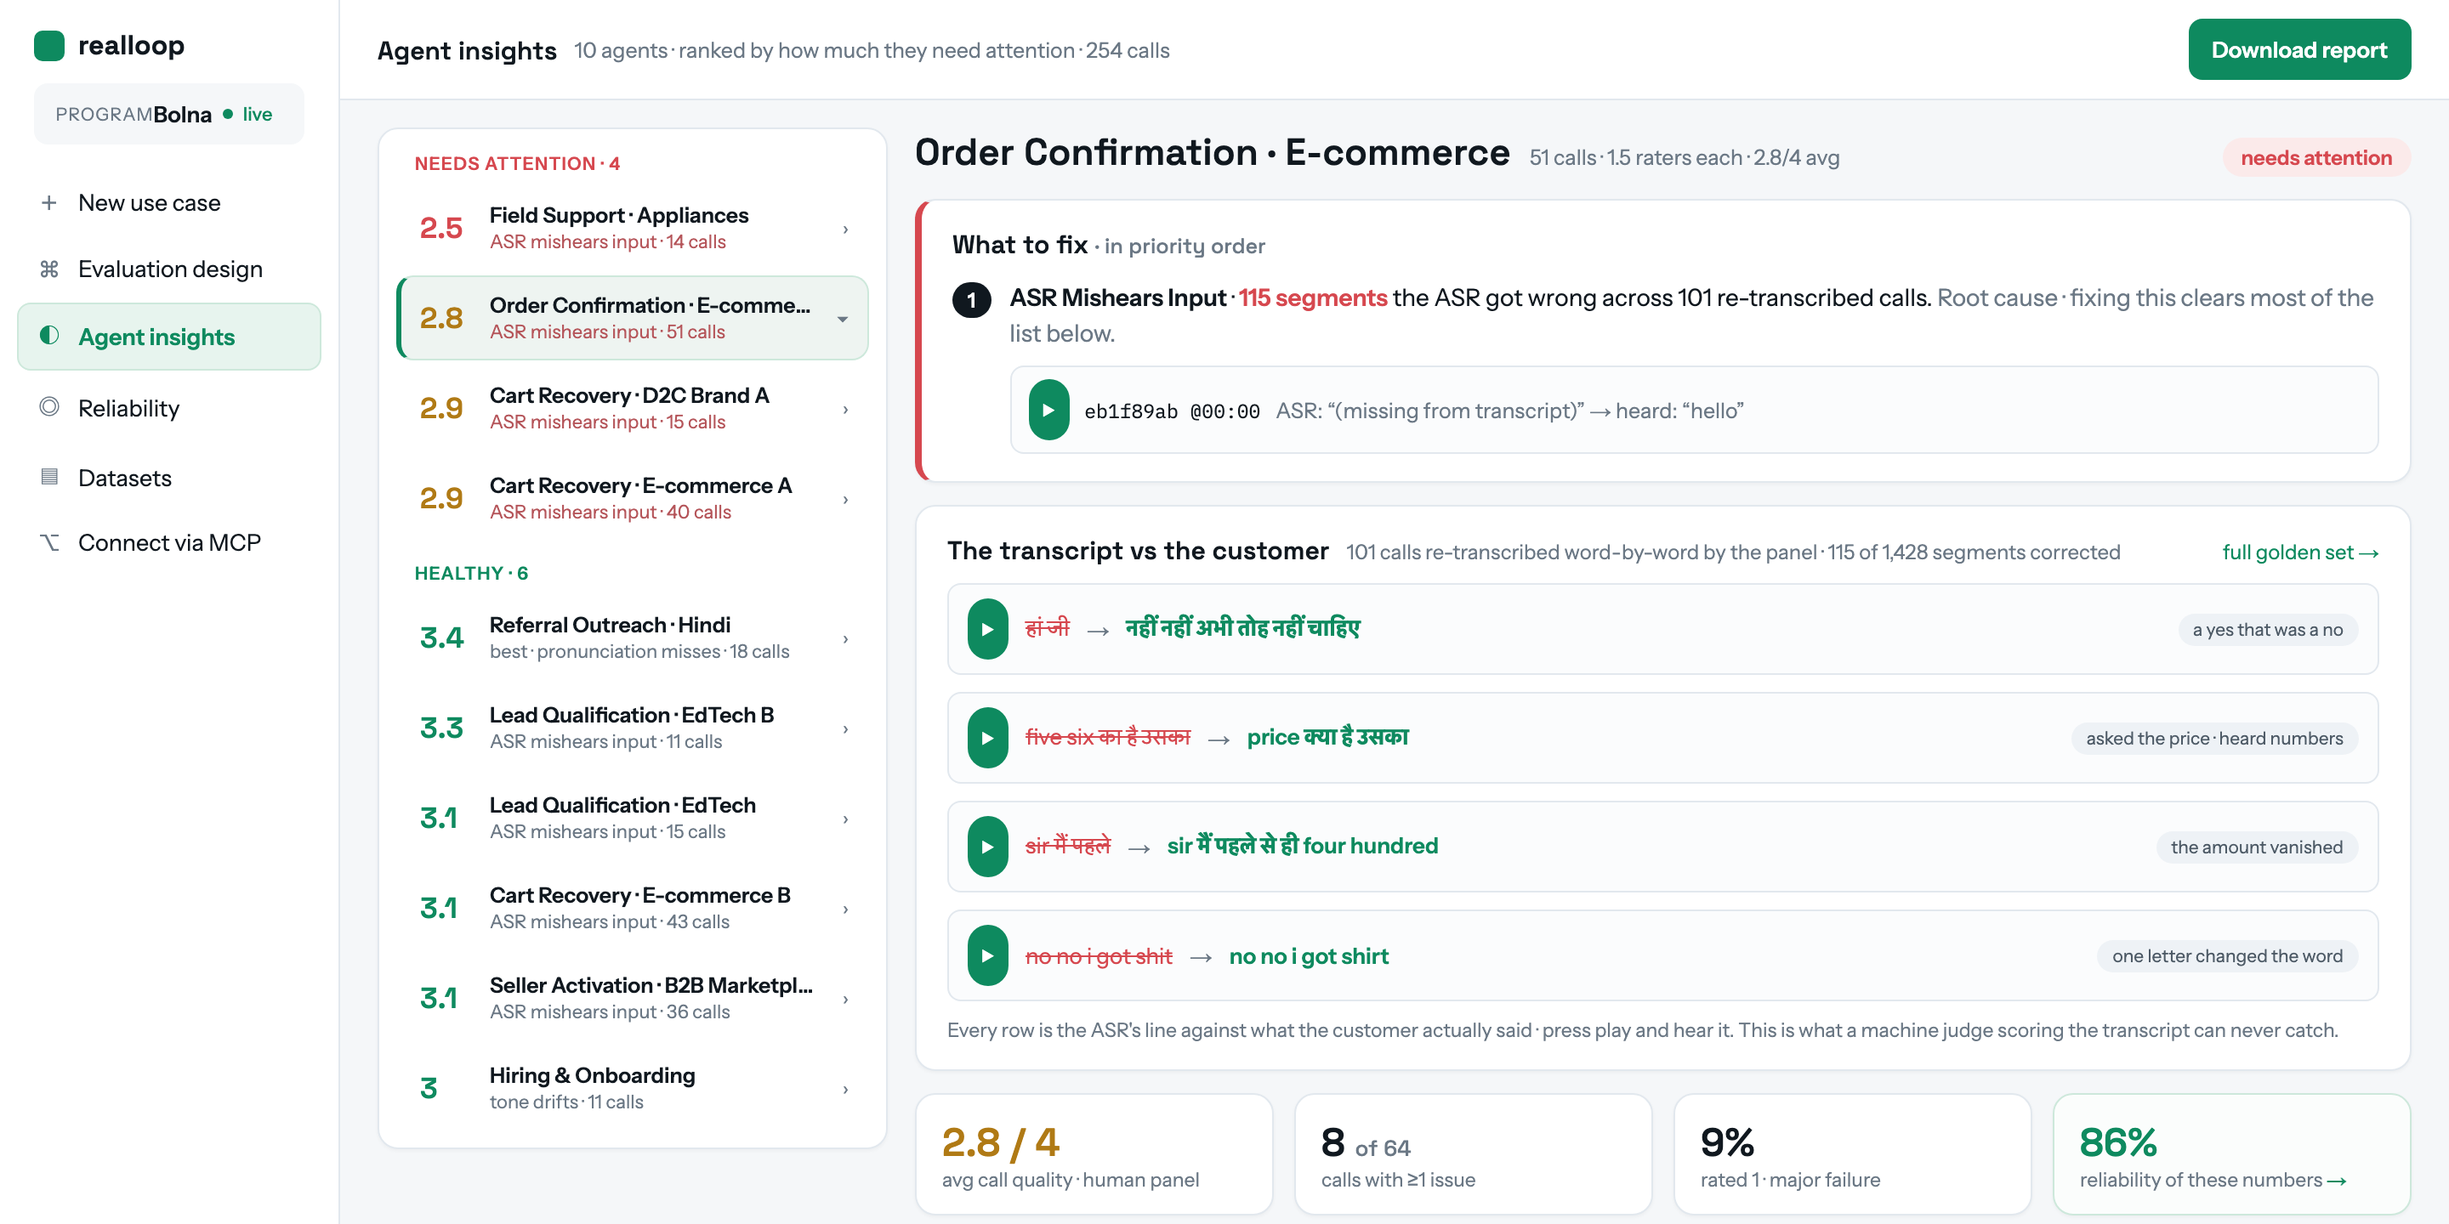
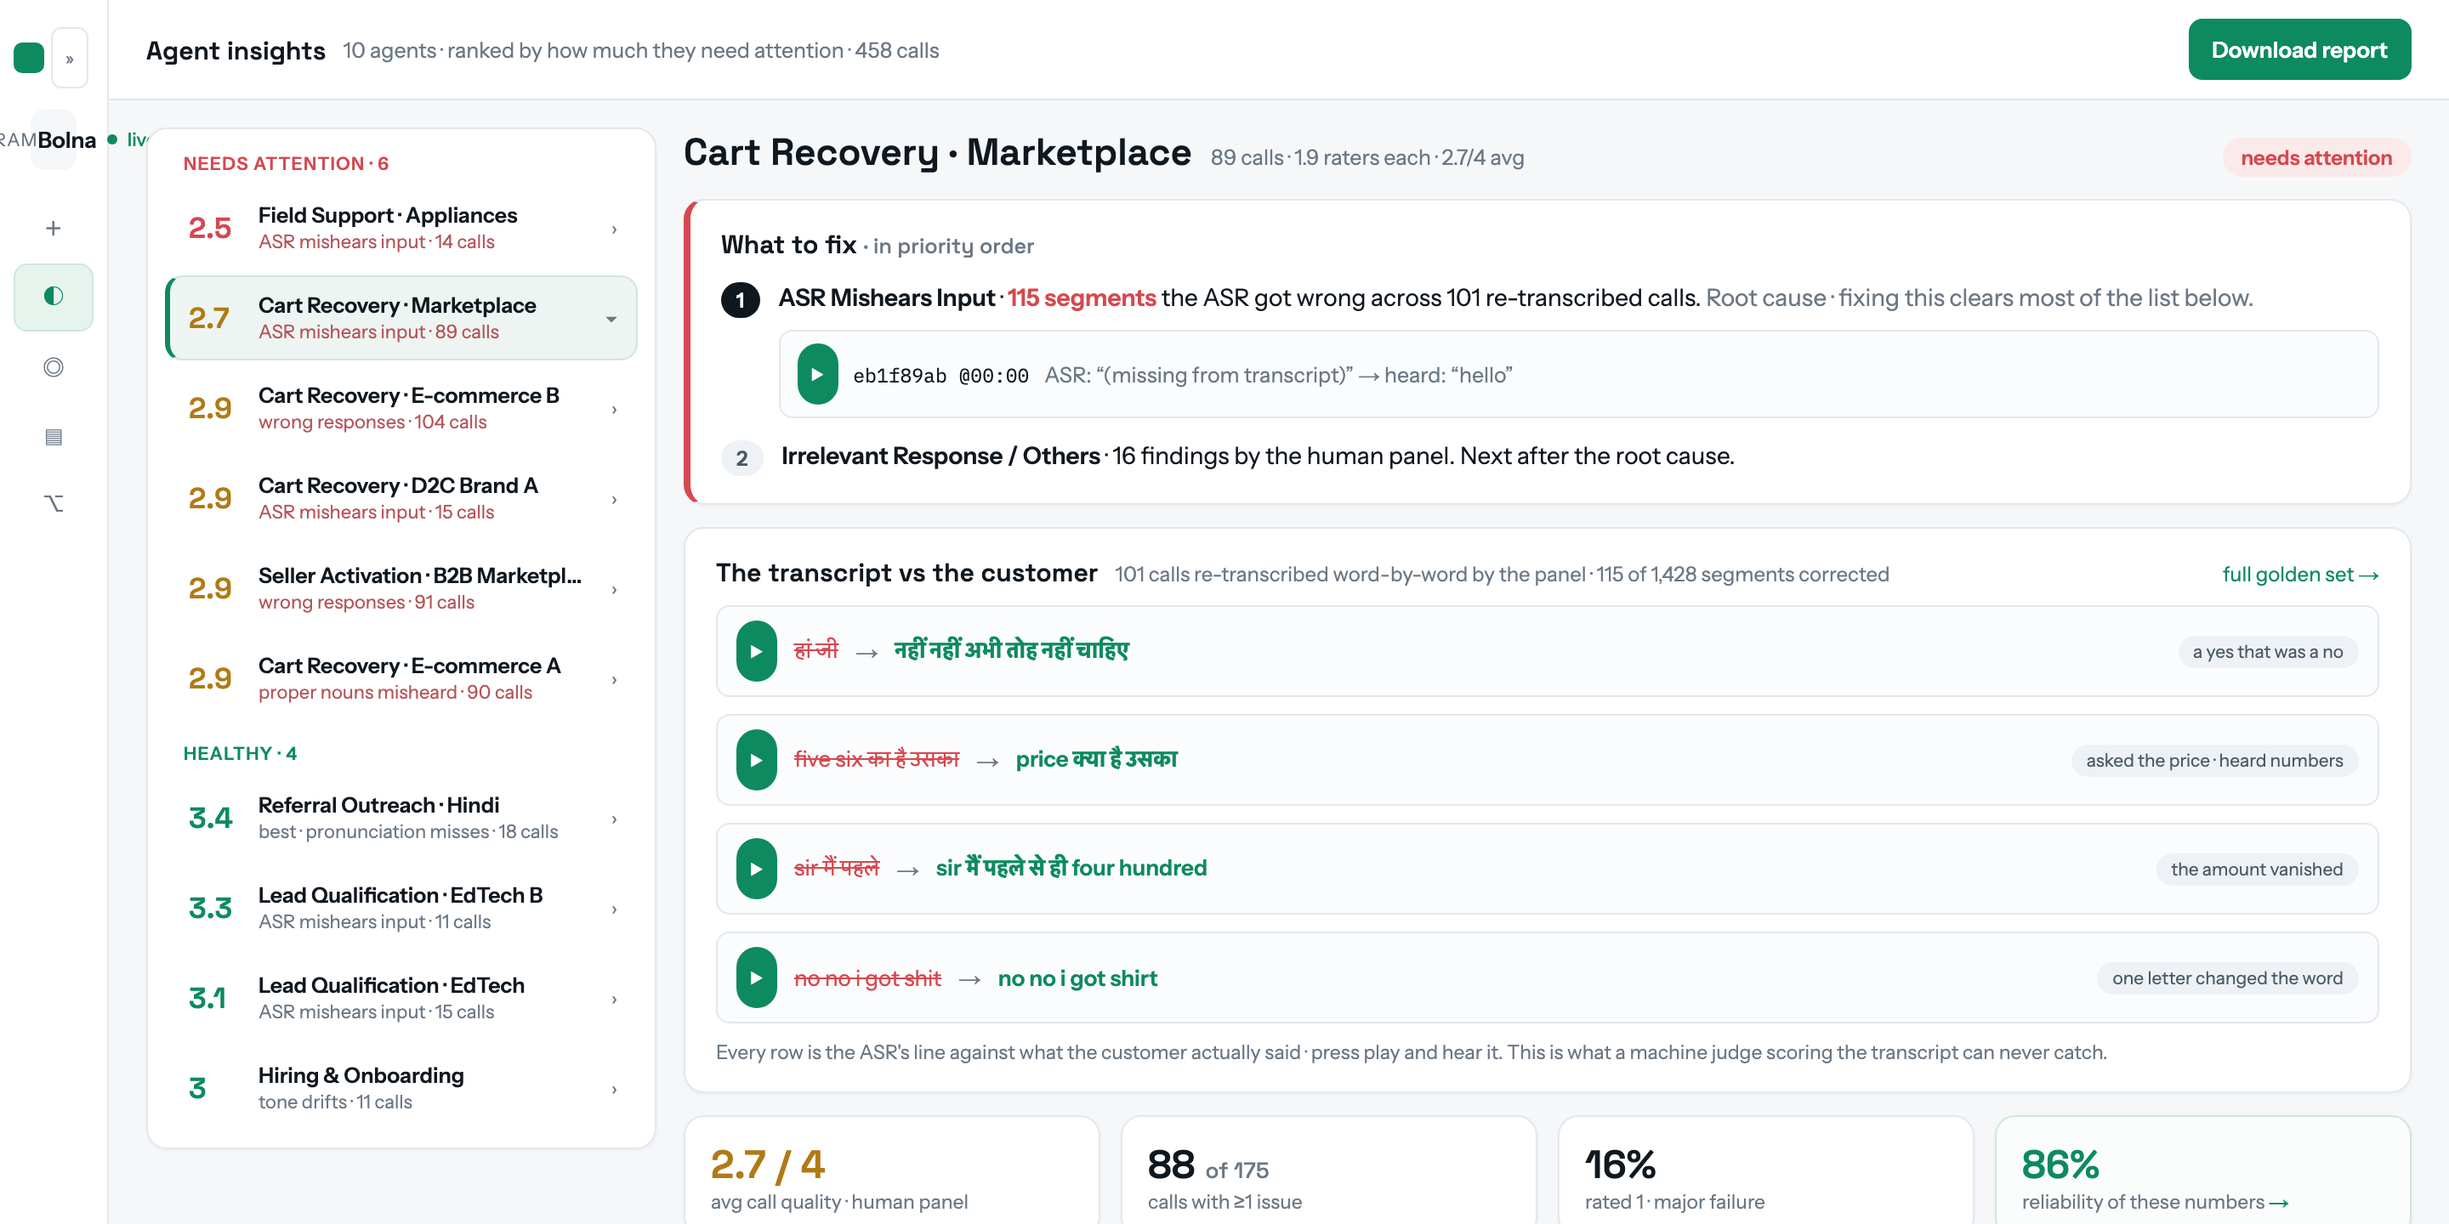
Rename the hero agent to Cart Recovery · Marketplace, and align the start timeline
The archetype label said Order Confirmation, but the agent is a cart-recovery
caller · 'मैं Meera बात कर रही हूँ Snapdeal से, आपने अपने cart में एक product
छोड़ दिया था'. With the example use case now describing exactly that, the demo
would have shown a client typing 'customers who left items in their cart' and
then clicking a tab called Order Confirmation.

Renamed across every surface that carries it: lib/anon.ts, the five portal data
files, the by-agent builder, the landing capture script, and the demo script.
No name clash · the six existing Cart Recovery archetypes are all suffixed
differently.

Two stale copy bits fixed while in there, both left over from the pricing
change: the start timeline still opened with 'we source and train reviewers'
(onboarding, which we cut when the marketplace became the standing supply) and
still said 'day 3', and the plain-language change hint still promised to show
what it does 'to the price'. Timeline now runs today · 48 hours · then · day 4 ·
weekly, matching the two-stage story on the website.

Landing screenshots regenerated · they were showing the old label and the old
three-check priced plan.

Demo script rewritten to the current product: two checks, no price on the plan,
the 48-hour range, the new 2b beat returning to the website, and the new agent
name.

diff --git a/vercel-supabase-app/app/portal/new-use-case/page.tsx b/vercel-supabase-app/app/portal/new-use-case/page.tsx
@@ -365,7 +365,7 @@ export default function NewUseCase() {
                     <button onClick={requestChange} disabled={!changeText.trim() || busyChange}
                       style={{ minWidth: 66, borderRadius: 8, background: INK, color: "#fff", fontWeight: 600, fontSize: 12.5, border: "none", cursor: changeText.trim() ? "pointer" : "not-allowed", opacity: changeText.trim() ? 1 : 0.45 }}>{busyChange ? "…" : "Send"}</button>
                   </div>
-                  <span style={{ fontSize: 11, color: MUT }}>We will show what it does to the price and to reliability before anything runs.</span>
+                  <span style={{ fontSize: 11, color: MUT }}>We will show what it changes before anything runs.</span>
 
                   {pending && (
                     <div style={{ background: "#fffdf7", border: "1px solid #ecd9a8", borderRadius: 9, padding: "11px 13px", display: "flex", flexDirection: "column", gap: 8 }}>
@@ -458,15 +458,15 @@ export default function NewUseCase() {
               <div style={{ ...card, padding: "16px 18px", display: "flex", flexDirection: "column", gap: 11, minHeight: 420 }}>
                 <span className={grotesk.className} style={{ fontSize: 14, fontWeight: 600 }}>What happens when you start</span>
                 {(cadence === "recurring" ? [
-                  ["today", "We source and train reviewers against your volume, and build a calibration set from your own recordings."],
-                  ["48 hours", "You get your reviewer panel back, sized to your weekly volume, with the reliability number it screened at."],
-                  ["day 3", "The process starts. Only reviewers who match our experts are on your work."],
+                  ["today", "We match reviewers from the marketplace to your volume and languages, and build a calibration set from your own recordings."],
+                  ["48 hours", "You get the plan and the cost, with your reviewer panel and the reliability number it screened at."],
+                  ["then", "The panel goes live. Only reviewers who match our experts are on your work."],
                   ["day 4", "First findings land in Agent insights, each with a timestamp you can play."],
                   ["weekly", "Expert-rated calls stay seeded in every batch, unmarked, so reliability keeps being checked."],
                 ] : [
-                  ["today", "We source and train reviewers against this batch's volume, and build a calibration set from your own recordings."],
-                  ["48 hours", "You get your reviewer panel back, sized to the batch, with the reliability number it screened at."],
-                  ["day 3", "The process starts. Only reviewers who match our experts are on your work."],
+                  ["today", "We match reviewers from the marketplace to this batch, and build a calibration set from your own recordings."],
+                  ["48 hours", "You get the plan and the cost, with your reviewer panel and the reliability number it screened at."],
+                  ["then", "The panel goes live. Only reviewers who match our experts are on your work."],
                   ["day 5", "The full batch is reviewed. Findings land in Agent insights, each with a timestamp you can play."],
                   ["after", "You keep the report and the golden data. Run another batch whenever you want."],
                 ]).map(([d, t]) => (

diff --git a/vercel-supabase-app/lib/anon.ts b/vercel-supabase-app/lib/anon.ts
@@ -3,7 +3,7 @@
 // org names; they show use-case archetypes.
 const ARCHETYPE: Record<string, string> = {
   "Visi Cooler Support v5.1 | Prod": "Field Support · Appliances",
-  "Unicommerce": "Order Confirmation · E-commerce",
+  "Unicommerce": "Cart Recovery · Marketplace",
   "GoKwik 2": "Cart Recovery · E-commerce A",
   "BiteSpeed": "Cart Recovery · E-commerce B",
   "Alibaba India": "Seller Activation · B2B Marketplace",

diff --git a/vercel-supabase-app/docs/demo-video-script.md b/vercel-supabase-app/docs/demo-video-script.md
@@ -1,122 +1,137 @@
 # RealLoop product demo · screen recording script
 
-~2 minutes. One take per scene is fine; cut between scenes. Speak at a normal
-pace · every VO block below is timed to its scene at ~2.3 words a second.
-Record the screen at full width, cursor visible, notifications off, and log out
-(or use a private window) until scene 6 so the anonymous views show.
+~2 minutes. One take per scene; cut between scenes. Every VO block is timed to
+its scene at ~2.4 words a second. Record at full width, cursor visible,
+notifications off, and stay logged out until scene 6 so the anonymous views
+show.
 
-One story runs through the whole video: the COD order-confirmation agent. You
-type it as a client, screen for it as a reviewer, and see its findings and
-reliability as the output.
+One story runs through the whole video: the **cart recovery agent**. You type it
+as a client, screen for it as a reviewer, and see its findings and reliability
+as the output. In the analytics it is **Cart Recovery · Marketplace**.
+
+Two rules that hold everywhere:
+- **Never speak a number.** The screen shows them; they move as data lands.
+- **Scene 2 and scene 6 must be the same agent.** That continuity is the thesis.
 
 ---
 
 ## 1 · Website · ~12s
 
-**On screen:** realloop.in. Scroll slowly from the hero to the use-case
-screenshot, pause on it, keep scrolling to "The wall every team hits".
+**Show:** realloop.in, logged out. Scroll slowly: hero → pause on the product
+screenshot → keep scrolling so "The wall every team hits" fills the frame as you
+land the last words.
 
 **Say:**
 > This is RealLoop · a marketplace for credible human judgment. Every AI in
-> production eventually needs a real human, to judge it, teach it, or do what
+> production eventually needs a real human · to judge it, teach it, or do what
 > it still can't. Getting those humans is the wall every team hits.
 
 ## 2 · Client input · ~15s
 
-**On screen:** Click **Start a use case**. The composer opens. Click the first
-example card so the COD text fills in, then click **Analyse**. Let the three
-check cards appear. Hover the highlighted phrases in the bubble.
+**Show:** Click **Start a use case** → composer opens in a new tab. Click the
+**first example card** (cart recovery fills in). Beat. Click **Analyse** · let
+the skeleton pulse play, don't cut it. When the plan lands, **hover slowly
+across the two highlighted phrases** in the bubble (green, then purple), drift
+down the two check cards. In the right rail type **3000**, click **"a day"** ·
+the volume line updates. End with the cursor near **Start the program**.
 
 **Say:**
-> A client describes the problem in plain language. Our order confirmation
-> agent, parcels come back refused, customers say they never agreed. The
-> engine reads it back as checks · transcription, number capture, factual
-> accuracy · and shows which phrase, in the client's own words, made it pick
-> each one. Volume in, price out. Nothing starts until they say so.
+> A client describes the job in plain language. Our agent completes cart orders
+> on the call · it confirms the name, the address, the quantity, the payment
+> method, the discount. The engine reads that back as two checks, and shows the
+> exact phrase in your own words that made it pick each one.
 
-*(If you want, change the volume to 3,000 and let the prices reprice on
-camera · one beat, no VO needed.)*
+## 2b · Back to the website · ~10s
 
-## 3 · Reviewer marketplace · ~13s
-
-**On screen:** Open marketplace.realloop.in **on your phone**, or in a narrow
-browser window. Show the landing, tap **Become a reviewer**, show the short
-apply form · name, state, languages, phone.
+**Show:** Click **Start the program** · the panel answers with "We will get back
+to you within 48 hours" and a rough cost range. Rest on it for a beat, then
+switch back to the realloop.in tab (still open) and scroll to **"What happens
+with your request"**, cursor drifting across the two stage cards.
 
 **Say:**
-> The other side of the marketplace. Reviewers join from anywhere in India,
-> from a phone. No CV, no interview loop · you pick your languages and you're
-> straight into a real screening task.
+> Nothing is priced until we scope it · we come back within 48 hours with the
+> plan and the cost. The reviewers already exist in our marketplace, so your
+> request goes through two stages · screening and training, then judgment
+> logging.
+
+## 3 · Reviewer marketplace · ~14s
+
+**Show:** Phone (or narrow window): `marketplace.realloop.in`. Landing → tap
+**Become a reviewer** → the apply form: name, state, language chips, phone. Tap
+a language chip on camera.
+
+**Say:**
+> The other side is the marketplace. Reviewers join from anywhere in India,
+> from a phone. No resume, no interview loop · you pick your languages and
+> you're straight into a real screening task.
 
 ## 4 · Screening and training · ~20s
 
-**On screen:** Continue on the phone. The 7-question assignment. Open the
-first transcription question: play the clip, mark one **Correct**, then get one
-**wrong on purpose** so the feedback card explains why. Show the "why" line.
+**Show:** Still on the phone. Submit → the 7-question assignment → open the
+**first transcription question**. Play the clip. Answer one **Correct**. On the
+next clip answer **wrong on purpose** · hold on the feedback card while it
+explains why.
 
 **Say:**
-> And here is the core idea · the use case you just saw becomes these tasks.
-> That fuzzy question, is the transcript right, is now one clip and one
-> decision. You hear the call, you judge it, and you get instant feedback with
-> the why, on real production audio, graded against our experts. Screening and
-> training are the same thing here · only reviewers who match the experts get
-> the work.
+> The training tool is built for India's phone-first workforce. The use case
+> the company entered becomes the tasks reviewers are screened and trained on ·
+> for our query, transcription logging. Every answer gets instant feedback with
+> the why, on real production calls, graded against our experts. Screening and
+> training are the same thing here.
 
-## 5 · The task tool · ~18s
+## 5 · The task tool · ~20s
 
-**On screen:** Still in the assignment: the full transcription workbench.
-Play a segment, click **Wrong · fix it**, type a correction in Roman and let it
-convert to Devanagari on screen. Tap through to the next clip to show the pace.
-
-**Say:**
-> The logging tool is built for speed. Type Hindi in Roman, it converts as you
-> go. English stays English. One tap per judgment, the audio follows you, and
-> a full call takes minutes. Fast reviewers who stay accurate · that is what
-> makes human judgment affordable at production volume.
-
-## 6 · Insight · ~12s
-
-**On screen:** Laptop, logged in. Agent insights, Order Confirmation selected.
-Point at "What to fix", then **play the first golden pair** · "हां जी" against
-"नहीं नहीं अभी तोह नहीं चाहिए". Let a second of the audio play.
+**Show:** Same assignment, full transcription workbench. Play a segment → tap
+**Wrong · fix it** → **type Hindi in Roman and let it convert to Devanagari on
+camera** · give this 3 full seconds. Tap through two clips to show pace.
 
 **Say:**
-> Output. The agent's root cause, ranked, with the evidence behind every
-> number. The transcript said yes · listen · the customer said no. A machine
-> judge scoring that transcript would have passed it.
+> The logging tool is built for speed and efficiency. Type Hindi in Roman, it
+> converts as you go. English stays English. One tap per judgment, the audio
+> follows you, and a full call takes minutes. Fast reviewers who stay accurate ·
+> that is what makes human judgment affordable at production volume.
+
+## 6 · Insight · ~10s
+
+**Show:** Laptop, logged in. **Agent insights → Cart Recovery · Marketplace**
+(same agent as scene 2). Cursor to "What to fix", then to the first golden pair ·
+click **▶** and let ~2 seconds of real audio play over your pause at "listen".
+
+**Say:**
+> The agent's root cause, with the evidence behind every number. The transcript
+> said yes · listen · the customer said no. A machine judge would have passed it.
 
 ## 7 · Reliability · ~10s
 
-**On screen:** Click the **86% reliability chip** on the same page. The
-reliability tab opens focused on this agent: inter-panel, vs ground truth,
-delta vs program.
+**Show:** Same page, click the **reliability chip** on the metric row · the
+reliability tab opens focused on this agent: inter-panel, vs ground truth, delta
+vs program. No scrolling, rest on the strip.
 
 **Say:**
-> And how much to trust it. Reviewer agreement, and agreement with a hidden
-> expert, per agent, published. Most vendors can't tell you their reliability.
-> It's a tab in ours.
+> And how much to trust it. A slice of calls goes through multiple reviewers,
+> and against a hidden expert. Staffing agencies can't measure their own
+> reliability. We publish ours.
 
 ## 8 · MCP · ~12s
 
-**On screen:** Open a terminal over the portal. Paste the `claude mcp add`
-one-liner from /portal/connect, then in Claude Code type a one-line use case
-and show `resolve_use_case` returning checks and the estimate.
+**Show:** Terminal over the portal. Paste the `claude mcp add` one-liner from
+/portal/connect (**fresh key**, not the old demo key). In Claude Code type one
+line · *"our cart recovery agent mishears addresses, put humans on it"* · and
+show `resolve_use_case` returning the checks.
 
 **Say:**
-> And for engineers, the whole thing is an MCP server. Describe the problem
-> from your terminal, same engine, same panel, same prices · as easy as
-> calling an LLM judge, except this one comes with humans you can trust.
+> And once you're onboarded, it's an MCP server. Describe the problem from your
+> terminal · human judgment as easy as calling an LLM judge, except this one you
+> can trust.
 
 ---
 
-**Total ~112s.**
+**Total ~123s.**
 
-Recording notes:
-- Scene 2 and scene 6 must show the SAME use case and agent · that continuity
-  is the story.
-- Scene 6: today's live numbers are 89 scored calls / 175 reviewed, avg 2.7.
-  Do not quote numbers in VO · they move as data lands; the script never says
-  one aloud.
-- Scene 8: use a fresh demo key, not the one from the old video.
-- If a scene runs long, cut screen time, not words · the VO lines are already
-  at the floor.
+Before recording:
+- The landing page's hero screenshot is regenerated from the current product ·
+  if the plan screen changes again, recapture it (scratchpad/capture_landing.js)
+  or the website will show a stale version of the screen you demo live.
+- Scene 8 needs a rotated MCP key.
+- If a scene runs long, cut screen time, not words · the VO is already at the
+  floor.
